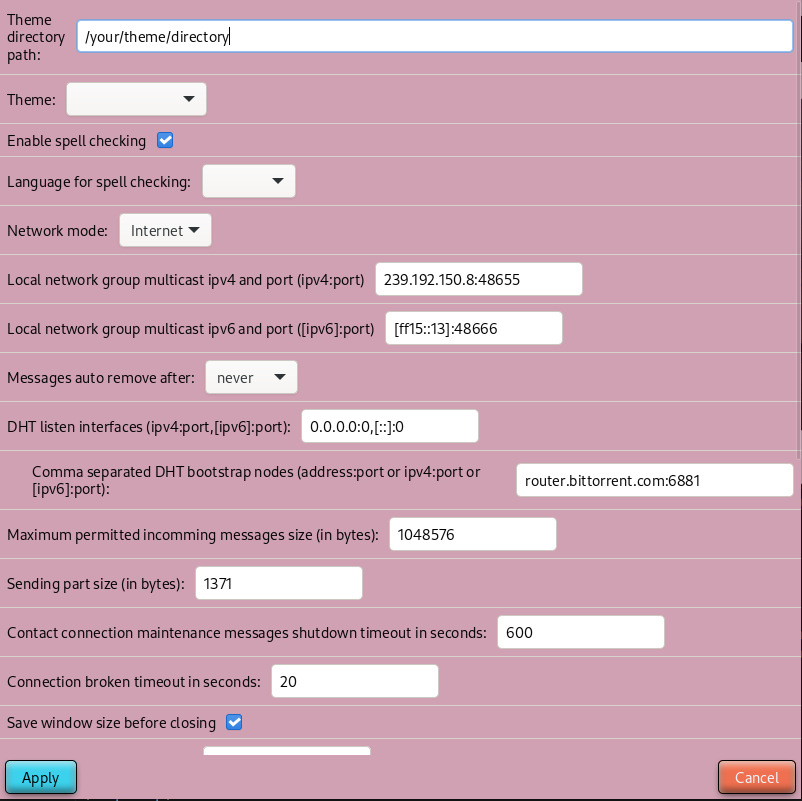
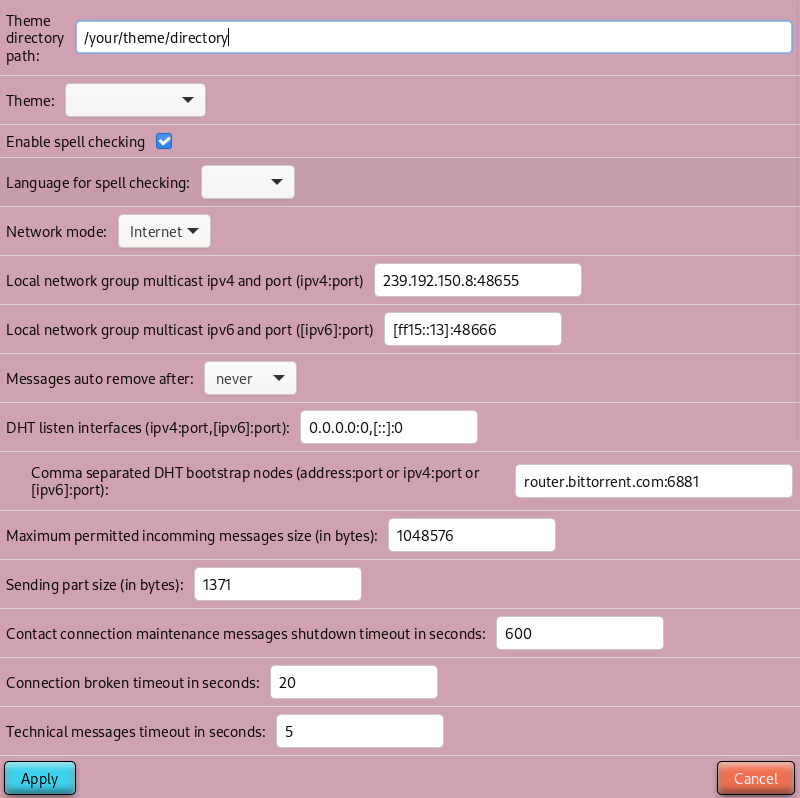
maintenance messages timeout

diff --git a/GUI/src/SettingsWindow.cpp b/GUI/src/SettingsWindow.cpp
@@ -760,6 +760,46 @@ SettingsWindow::settingsWindow ()
   bx = Gtk::make_managed<Gtk::Box> (Gtk::Orientation::HORIZONTAL);
   lbr = Gtk::make_managed<Gtk::ListBoxRow> ();
   lbr->set_selectable (false);
+  Gtk::Label *mainttmtl = Gtk::make_managed<Gtk::Label> ();
+  mainttmtl->set_halign (Gtk::Align::START);
+  mainttmtl->set_justify (Gtk::Justification::LEFT);
+  mainttmtl->set_margin (5);
+  mainttmtl->set_wrap_mode (Pango::WrapMode::WORD);
+  mainttmtl->set_text (gettext ("Technical messages timeout in seconds:"));
+  bx->append (*mainttmtl);
+
+  Gtk::Entry *mainttmte = Gtk::make_managed<Gtk::Entry> ();
+  mainttmte->set_halign (Gtk::Align::END);
+  mainttmte->set_valign (Gtk::Align::CENTER);
+  mainttmte->set_margin (5);
+  Glib::RefPtr<Gtk::EntryBuffer> mainttmtebuf = Gtk::EntryBuffer::create ();
+  mw->prefvectmtx.lock ();
+  itprv = std::find_if (mw->prefvect.begin (), mw->prefvect.end (), []
+  (auto &el)
+    {
+      return std::get<0>(el) == "Maintpause";
+    });
+  if (itprv != mw->prefvect.end ())
+    {
+      mainttmtebuf->set_text (Glib::ustring (std::get<1> (*itprv)));
+    }
+  else
+    {
+      mainttmtebuf->set_text ("5");
+    }
+  mw->prefvectmtx.unlock ();
+  if (mainttmtebuf->get_length () > 0)
+    {
+      mainttmte->set_width_chars (mainttmtebuf->get_length ());
+    }
+  mainttmte->set_buffer (mainttmtebuf);
+  bx->append (*mainttmte);
+  lbr->set_child (*bx);
+  listb->append (*lbr);
+
+  bx = Gtk::make_managed<Gtk::Box> (Gtk::Orientation::HORIZONTAL);
+  lbr = Gtk::make_managed<Gtk::ListBoxRow> ();
+  lbr->set_selectable (false);
   Gtk::Label *winszl = Gtk::make_managed<Gtk::Label> ();
   winszl->set_halign (Gtk::Align::START);
   winszl->set_justify (Gtk::Justification::LEFT);
@@ -1327,7 +1367,7 @@ SettingsWindow::settingsWindow ()
       sigc::bind (sigc::mem_fun (*this, &SettingsWindow::saveSettings), window,
 		  themepathval, lifcsval, locip6val, locip4val, bootstre,
 		  msgsze, partsze, winszch, msgwchre, sendkeycmb, grnotificch,
-		  soundch, soundpe, shutmte, tmtteare, langchenbch,
+		  soundch, soundpe, shutmte, tmtteare, mainttmte, langchenbch,
 		  hole_punchch, enstunch, stunpe, enrelch, relaype, relaypathe,
 		  directinetch, mwl));
 
@@ -1384,6 +1424,7 @@ SettingsWindow::saveSettings (Gtk::Window *window, Gtk::Entry *themepathval,
 			      Gtk::CheckButton *grnotificch,
 			      Gtk::CheckButton *soundch, Gtk::Entry *soundpe,
 			      Gtk::Entry *shutmte, Gtk::Entry *tmtteare,
+			      Gtk::Entry *mainttmte,
 			      Gtk::CheckButton *langchenbch,
 			      Gtk::CheckButton *hole_punchch,
 			      Gtk::CheckButton *enstunch, Gtk::Entry *stunpe,
@@ -1833,6 +1874,37 @@ SettingsWindow::saveSettings (Gtk::Window *window, Gtk::Entry *themepathval,
       else
 	{
 	  mwl->prefvect.push_back (std::make_tuple ("TmtTear", "20"));
+	}
+    }
+
+  itprv = std::find_if (mwl->prefvect.begin (), mwl->prefvect.end (), []
+  (auto &el)
+    {
+      return std::get<0>(el) == "Maintpause";
+    });
+  if (itprv != mwl->prefvect.end ())
+    {
+      if (mainttmte->get_buffer ()->get_text () != "")
+	{
+	  std::get<1> (*itprv) = std::string (
+	      mainttmte->get_buffer ()->get_text ());
+	}
+      else
+	{
+	  std::get<1> (*itprv) = "5";
+	}
+    }
+  else
+    {
+      if (mainttmte->get_buffer ()->get_text () != "")
+	{
+	  mwl->prefvect.push_back (
+	      std::make_tuple ("Maintpause",
+			       mainttmte->get_buffer ()->get_text ()));
+	}
+      else
+	{
+	  mwl->prefvect.push_back (std::make_tuple ("Maintpause", "5"));
 	}
     }
 

diff --git a/GUI/include/SettingsWindow.h b/GUI/include/SettingsWindow.h
@@ -47,11 +47,11 @@ private:
 		Gtk::Entry *msgwchre, Gtk::ComboBoxText *sendkeycmb,
 		Gtk::CheckButton *soundch, Gtk::CheckButton *grnotificch,
 		Gtk::Entry *soundpe, Gtk::Entry *shutmte, Gtk::Entry *tmtteare,
-		Gtk::CheckButton *langchenbch, Gtk::CheckButton *hole_punchch,
-		Gtk::CheckButton *enstunch, Gtk::Entry *stunpe,
-		Gtk::CheckButton *enrelch, Gtk::Entry *relaype,
-		Gtk::Entry *relaypathe, Gtk::CheckButton *directinetch,
-		MainWindow *mwl);
+		Gtk::Entry *mainttmte, Gtk::CheckButton *langchenbch,
+		Gtk::CheckButton *hole_punchch, Gtk::CheckButton *enstunch,
+		Gtk::Entry *stunpe, Gtk::CheckButton *enrelch,
+		Gtk::Entry *relaype, Gtk::Entry *relaypathe,
+		Gtk::CheckButton *directinetch, MainWindow *mwl);
   MainWindow *mw = nullptr;
 };
 

diff --git a/README_RU.md b/README_RU.md
@@ -93,6 +93,8 @@
 `Размер отправляемой части...` - сообщения отправляются по частям с проверкой хэша каждой части на стороне получателя. Данный параметр указывает размер такой части. Не рекомендуется устанавливать слишком маленькое значение - возрастёт технический сетевой траффик. В то же время не рекомендуется устанавливать слишком большое значение - в случае возникновения ошибки программа попытается отправить часть снова, т.е. сетевой траффик также возрастёт. 
  
 `Таймаут остановки...` - параметр указывает количество секунд, по истечении которого контакт будет считаться отключённым от сети. После этого попытки установить соединение будут прекращены до получения нового значения пары адрес:порт из сети DHT.
+
+`Пауза между техническими сообщениями...` - в режиме "интернет" программа отправляет технические сообщения каждому контакту из списка (кроме заблокированных). Данный параметр устанавливает временной интервал между такими сообщениями. Не устанавливайте его больше, чем Таймаут остановки...
  
 `...соединение с контактом считается разорванным` - параметр, устанавливающий паузу, после которой соединение с контактом будет считаться разорванным.
 

diff --git a/README.md b/README.md
@@ -10,7 +10,7 @@ Communist is a simple GTK 4 based p2p messenger. It uses torrent DHT combined wi
 
 ### Linux
 
-`git clone https://github.com/ProfessorNavigator/communist.git`\
+`git clone https://github.com/ProfessorNavigator/communist.git`
 `cd communist`\
 `meson -Dbuildtype=release build`\
 `ninja -C build install`
@@ -95,6 +95,8 @@ Spell checking is carried out by libhuspell. You can enable/disable it completel
  `Contact connection...` parameter shows after how many seconds contact state will be considered as 'offline'. In this case attempts to connect will be stopped until program receives new ip address from DHT.
  
  `Connection broken...` parameter shows after how many seconds contact will be considered as disconnected (after that label 'online' on contacts' button will disappear).
+ 
+ `Technical messages timeout...` - timeout between connection maintenance messages in seconds. This messages program will send to each contact in case "internet" mode is set and if this contact is not blocked. Do not set this parameter bigger then Connection broken... parameter. 
  
  `Save window size...` - if checked Communist will restore main window size on next launch.
  
